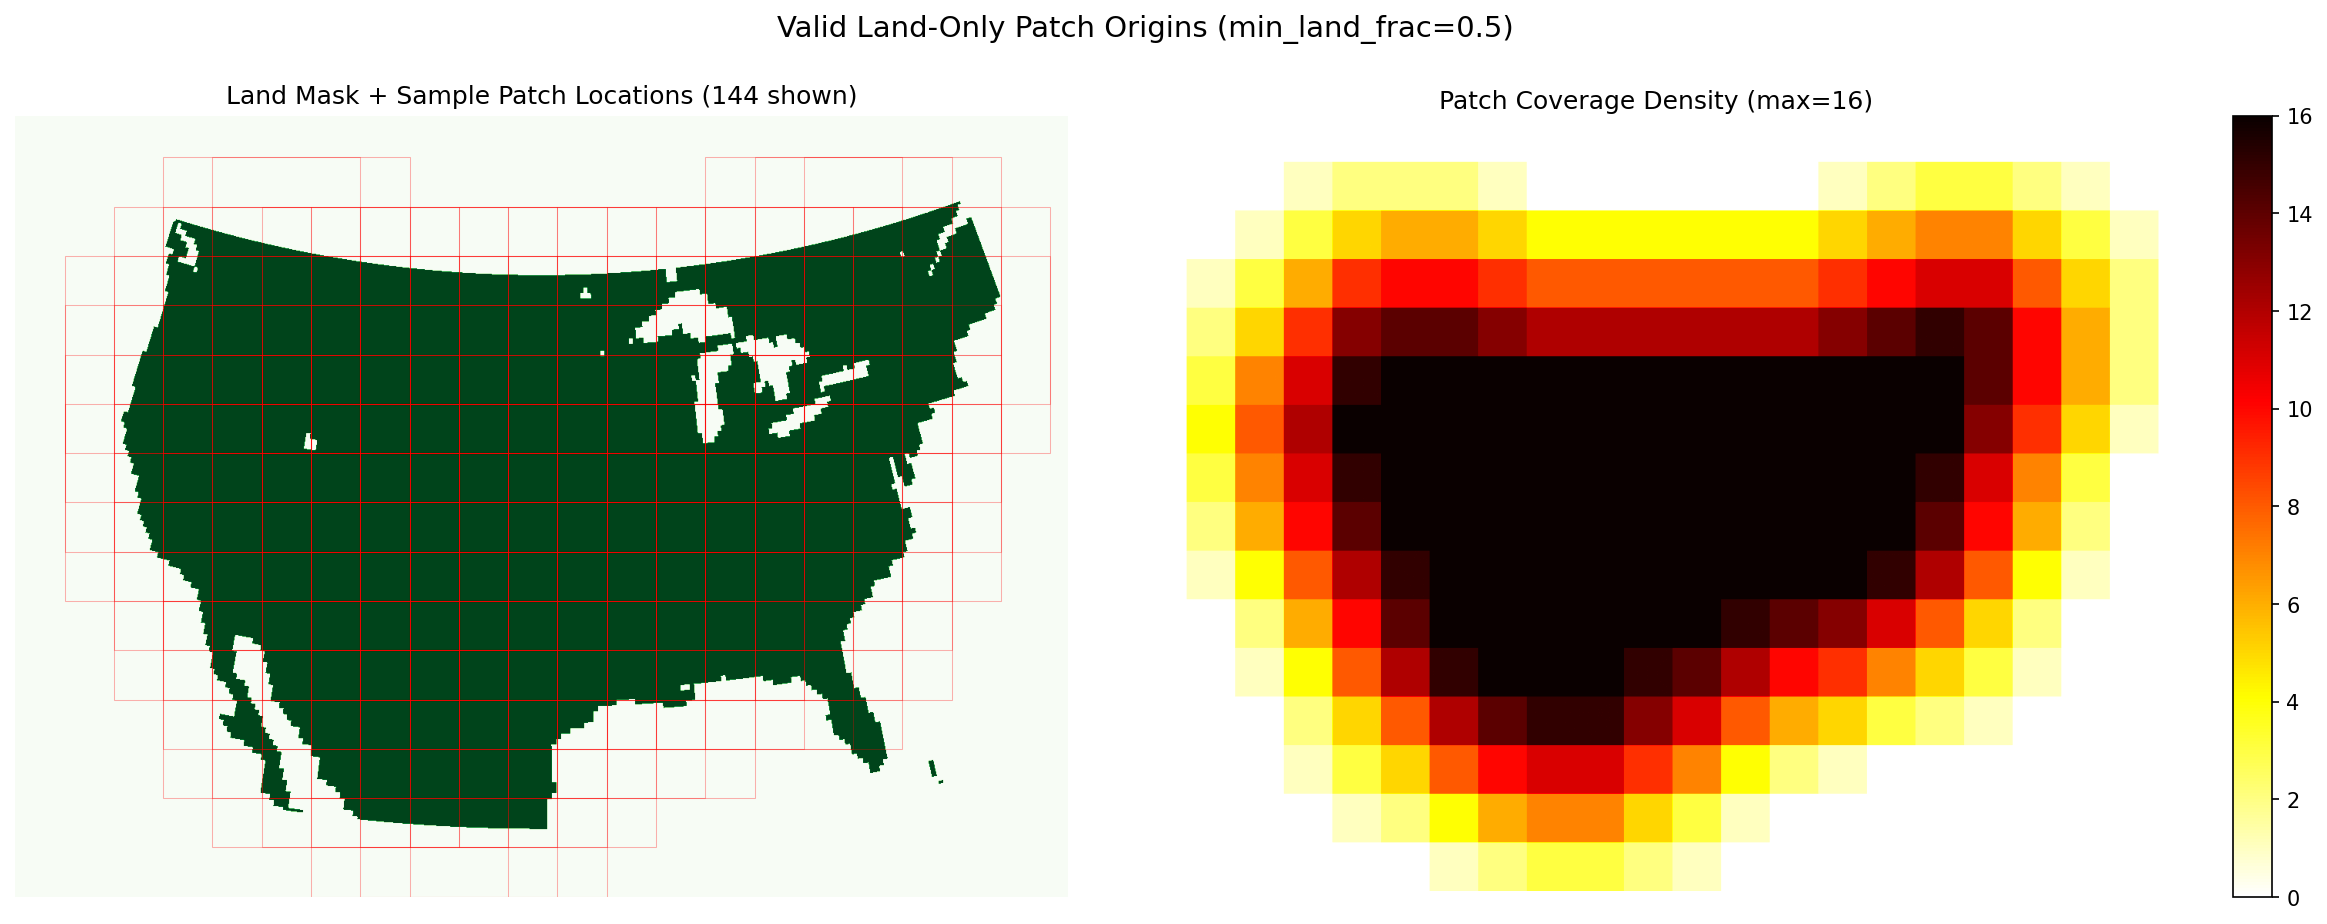
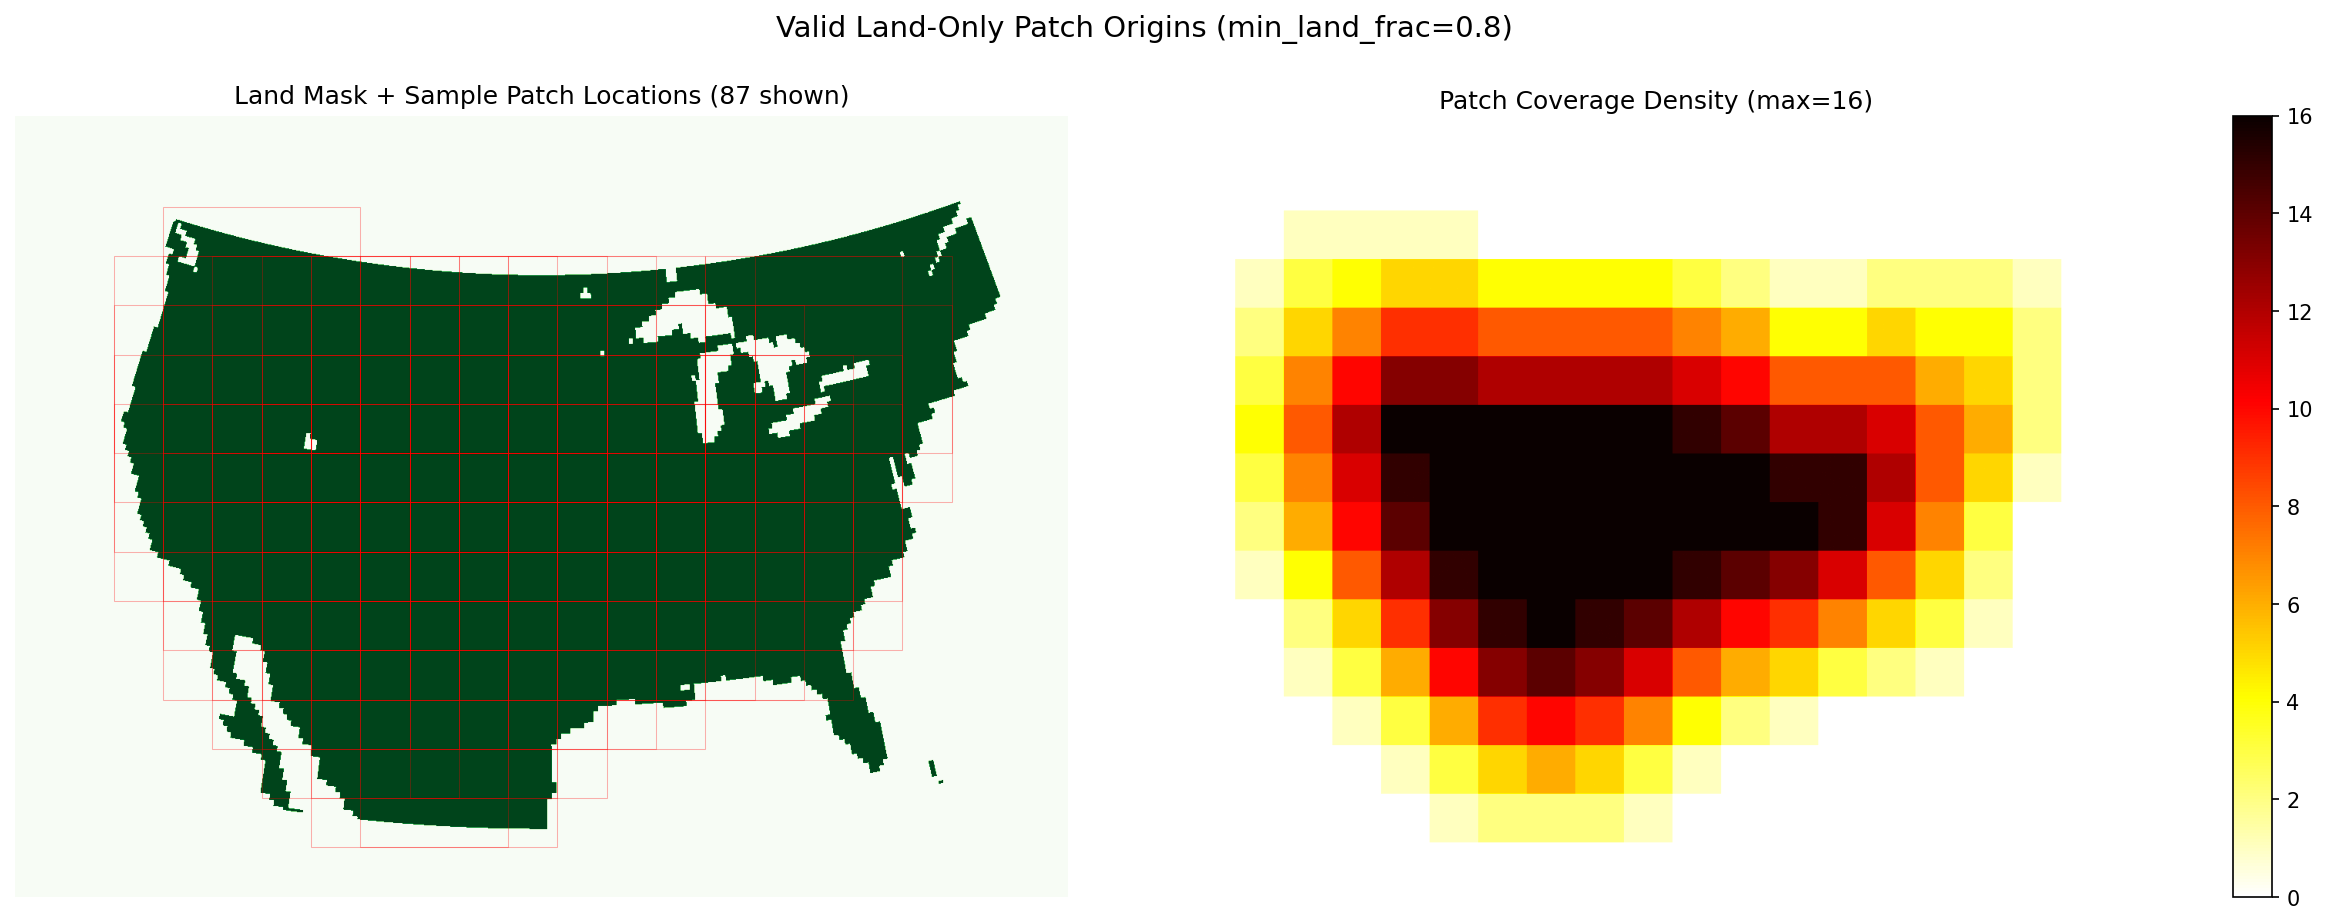
raise min_land_frac to 0.8, fill non-land pixels with patch mean

diff --git a/src/data/dataset.py b/src/data/dataset.py
@@ -1,0 +1,231 @@
+"""Dataset and DataModule for ERA5→CONUS404 downscaling."""
+
+import numpy as np
+import torch
+from torch.utils.data import Dataset, DataLoader
+import xarray as xr
+from pathlib import Path
+from typing import Optional, List, Tuple
+
+from .normalization import (
+    ERA5_VARS as DEFAULT_ERA5_VARS,
+    CONUS404_VARS as DEFAULT_CONUS404_VARS,
+    NormalizationStats,
+    apply_pretransform, PRETRANSFORMS,
+)
+from .regrid import ERA5Regridder
+from .land_mask import build_conus404_land_mask, get_valid_patch_origins
+
+
+def _month_for_day(day_of_year: int, leap: bool = False) -> int:
+    """Return 0-indexed month for a 1-indexed day of year."""
+    days_in_month = [31, 29 if leap else 28, 31, 30, 31, 30, 31, 31, 30, 31, 30, 31]
+    cum = 0
+    for m, d in enumerate(days_in_month):
+        cum += d
+        if day_of_year <= cum:
+            return m
+    return 11
+
+
+def _is_leap(year: int) -> bool:
+    return (year % 4 == 0 and year % 100 != 0) or (year % 400 == 0)
+
+
+class DownscalingDataset(Dataset):
+    """Lazy-loading dataset that yields paired (ERA5, CONUS404) patches.
+
+    Each sample is one day, one random 256×256 patch from land-only regions
+    of the CONUS404 grid, with the corresponding regridded ERA5 data.
+    """
+
+    def __init__(
+        self,
+        data_dir: str,
+        years: list,
+        norm_stats: NormalizationStats,
+        patch_size: int = 256,
+        patches_per_day: int = 4,
+        regridder: Optional[ERA5Regridder] = None,
+        conus_lat: Optional[np.ndarray] = None,
+        conus_lon: Optional[np.ndarray] = None,
+        land_mask: Optional[np.ndarray] = None,
+        valid_origins: Optional[List[Tuple[int, int]]] = None,
+        era5_vars: Optional[list] = None,
+        conus_vars: Optional[list] = None,
+    ):
+        self.data_dir = Path(data_dir)
+        self.years = years
+        self.norm_stats = norm_stats
+        self.patch_size = patch_size
+        self.patches_per_day = patches_per_day
+        self.regridder = regridder
+        self.conus_lat = conus_lat
+        self.conus_lon = conus_lon
+        self.land_mask = land_mask
+        self.valid_origins = valid_origins
+        self.era5_vars = era5_vars or DEFAULT_ERA5_VARS
+        self.conus_vars = conus_vars or DEFAULT_CONUS404_VARS
+
+        # Build index: (year, day_index) for all valid days
+        self.index = []
+        for y in years:
+            n_days = 366 if _is_leap(y) else 365
+            for d in range(n_days):
+                for _ in range(patches_per_day):
+                    self.index.append((y, d))
+
+        # Static fields (computed lazily)
+        self._static_fields = None
+
+    def _get_static_fields(self, conus_ds: xr.Dataset) -> np.ndarray:
+        """Build static fields: terrain_height, lat_norm, lon_norm, lsm-proxy, lai-proxy, elevation-variance.
+
+        Returns (6, 1015, 1367) array.
+        """
+        if self._static_fields is not None:
+            return self._static_fields
+
+        lat = self.conus_lat  # (1015, 1367)
+        lon = self.conus_lon
+        # Normalize to [-1, 1]
+        lat_norm = (lat - lat.mean()) / (lat.std() + 1e-8)
+        lon_norm = (lon - lon.mean()) / (lon.std() + 1e-8)
+
+        # Terrain height from Z variable (level 0, first time step)
+        z = conus_ds["Z"].isel(time=0, bottom_top_stag=0).values  # (1015, 1367)
+        z_norm = (z - z.mean()) / (z.std() + 1e-8)
+
+        # LAI from first time step
+        lai = conus_ds["LAI"].isel(time=0).values
+        lai_norm = (lai - lai.mean()) / (lai.std() + 1e-8)
+
+        # Orographic variance (local std of terrain in 5×5 window, simplified)
+        from scipy.ndimage import uniform_filter
+        z_mean = uniform_filter(z, size=5)
+        z_sq_mean = uniform_filter(z ** 2, size=5)
+        orog_var = np.sqrt(np.maximum(z_sq_mean - z_mean ** 2, 0))
+        orog_var_norm = (orog_var - orog_var.mean()) / (orog_var.std() + 1e-8)
+
+        # Land mask proxy (Z > some threshold indicates land; simplified)
+        lsm = (z > 0).astype(np.float32)
+
+        self._static_fields = np.stack([z_norm, orog_var_norm, lat_norm, lon_norm, lai_norm, lsm], axis=0).astype(np.float32)
+        return self._static_fields
+
+    def __len__(self):
+        return len(self.index)
+
+    def __getitem__(self, idx):
+        year, day_idx = self.index[idx]
+        leap = _is_leap(year)
+        month_idx = _month_for_day(day_idx + 1, leap)
+
+        # Load ERA5 data for this day
+        era5_path = self.data_dir / f"era5_{year}.nc"
+        with xr.open_dataset(era5_path) as ds:
+            era5_day = {}
+            for var in self.era5_vars:
+                raw = ds[var].isel(time=month_idx, valid_time=day_idx).values  # (111, 235)
+                era5_day[var] = apply_pretransform(raw.astype(np.float32), var)
+
+        # Stack ERA5 channels and regrid to CONUS404 grid
+        era5_stack = np.stack([era5_day[v] for v in self.era5_vars], axis=0)
+        if self.regridder is not None:
+            era5_regridded = self.regridder.regrid_batch(era5_stack)  # (7, 1015, 1367)
+        else:
+            raise RuntimeError("Regridder not initialized")
+
+        # Load CONUS404 data for this day
+        conus_path = self.data_dir / f"conus404_yearly_{year}.nc"
+        with xr.open_dataset(conus_path) as ds:
+            conus_day = {}
+            for var in self.conus_vars:
+                raw = ds[var].isel(time=day_idx).values  # (1015, 1367)
+                conus_day[var] = apply_pretransform(raw.astype(np.float32), var)
+            static = self._get_static_fields(ds)
+
+        # Stack CONUS404 channels
+        conus_stack = np.stack([conus_day[v] for v in self.conus_vars], axis=0)
+
+        # Concatenate ERA5 regridded + static fields for input
+        era5_input = np.concatenate([era5_regridded, static], axis=0)  # (13, 1015, 1367)
+
+        # Random patch extraction — land-only if valid_origins provided
+        H, W = 1015, 1367
+        ps = self.patch_size
+        if self.valid_origins is not None and len(self.valid_origins) > 0:
+            idx_origin = np.random.randint(0, len(self.valid_origins))
+            y0, x0 = self.valid_origins[idx_origin]
+        else:
+            y0 = np.random.randint(0, H - ps)
+            x0 = np.random.randint(0, W - ps)
+
+        era5_patch = era5_input[:, y0:y0+ps, x0:x0+ps].copy()
+        conus_patch = conus_stack[:, y0:y0+ps, x0:x0+ps].copy()
+
+        # Fill non-land pixels with per-channel patch mean so they don't
+        # distort gradients (patches are >=80% land but not always 100%)
+        if self.land_mask is not None:
+            patch_mask = self.land_mask[y0:y0+ps, x0:x0+ps]
+            if not patch_mask.all():
+                for c in range(era5_patch.shape[0]):
+                    ch = era5_patch[c]
+                    ch[~patch_mask] = ch[patch_mask].mean()
+                for c in range(conus_patch.shape[0]):
+                    ch = conus_patch[c]
+                    ch[~patch_mask] = ch[patch_mask].mean()
+
+        era5_patch = torch.from_numpy(era5_patch)
+        conus_patch = torch.from_numpy(conus_patch)
+
+        # Normalize
+        era5_patch = self.norm_stats.normalize_era5(era5_patch.unsqueeze(0)).squeeze(0)
+        conus_patch = self.norm_stats.normalize_conus(conus_patch.unsqueeze(0)).squeeze(0)
+
+        return era5_patch, conus_patch
+
+
+def build_dataloaders(
+    data_dir: str,
+    norm_stats: NormalizationStats,
+    regridder: ERA5Regridder,
+    conus_lat: np.ndarray,
+    conus_lon: np.ndarray,
+    batch_size: int = 16,
+    patch_size: int = 256,
+    patches_per_day: int = 4,
+    num_workers: int = 4,
+    train_years: list = None,
+    val_years: list = None,
+    land_mask: np.ndarray = None,
+    valid_origins: list = None,
+    era5_vars: list = None,
+    conus_vars: list = None,
+):
+    """Build train and val DataLoaders with optional land-only patch extraction."""
+    if train_years is None:
+        train_years = list(range(1980, 2015))
+    if val_years is None:
+        val_years = list(range(2015, 2018))
+
+    train_ds = DownscalingDataset(
+        data_dir, train_years, norm_stats, patch_size,
+        patches_per_day=patches_per_day,
+        regridder=regridder, conus_lat=conus_lat, conus_lon=conus_lon,
+        land_mask=land_mask, valid_origins=valid_origins,
+        era5_vars=era5_vars, conus_vars=conus_vars,
+    )
+    val_ds = DownscalingDataset(
+        data_dir, val_years, norm_stats, patch_size,
+        patches_per_day=1, regridder=regridder,
+        conus_lat=conus_lat, conus_lon=conus_lon,
+        land_mask=land_mask, valid_origins=valid_origins,
+        era5_vars=era5_vars, conus_vars=conus_vars,
+    )
+
+    train_dl = DataLoader(train_ds, batch_size=batch_size, shuffle=True,
+                          num_workers=num_workers, pin_memory=True, drop_last=True)
+    val_dl = DataLoader(val_ds, batch_size=batch_size, shuffle=False,
+                        num_workers=num_workers, pin_memory=True)
+    return train_dl, val_dl

diff --git a/config.py b/config.py
@@ -1,0 +1,95 @@
+"""Model configuration — variables, bounds, and training defaults.
+
+Add new variable pairs to VARIABLE_PAIRS to train on more fields.
+Currently set to temperature only.
+"""
+
+# ─── US CONUS geographic bounds ──────────────────────────────────────────────
+LAT_MIN, LAT_MAX = 24, 50
+LON_MIN, LON_MAX = -125, -66
+
+# ─── Variable pairs: ERA5 name → CONUS404 name ──────────────────────────────
+# Only temperature for now — uncomment lines below to add more variables.
+VARIABLE_PAIRS = {
+    "t2m": "T2",
+    # "d2m": "TD2",
+    # "u10": "U10",
+    # "v10": "V10",
+    # "sp": "PSFC",
+    # "tp": "PREC_ACC_NC",
+    # "z": "Q2",
+}
+
+ERA5_VARS = list(VARIABLE_PAIRS.keys())
+CONUS404_VARS = list(VARIABLE_PAIRS.values())
+
+# Number of input channels = len(ERA5_VARS) + num_static_fields
+NUM_STATIC_FIELDS = 5  # terrain, orog_var, lat, lon, lsm
+IN_CH = len(ERA5_VARS) + NUM_STATIC_FIELDS
+OUT_CH = len(CONUS404_VARS)
+
+# ─── Units and labels ────────────────────────────────────────────────────────
+VARIABLE_UNITS = {
+    "t2m": "K", "d2m": "K", "sp": "hPa",
+    "u10": "m/s", "v10": "m/s", "tp": "mm", "z": "m",
+    "T2": "K", "TD2": "K", "PSFC": "hPa",
+    "U10": "m/s", "V10": "m/s", "PREC_ACC_NC": "mm", "Q2": "kg/kg",
+}
+
+VARIABLE_NAMES = {
+    "t2m": "2m Temperature", "d2m": "2m Dewpoint", "sp": "Surface Pressure",
+    "u10": "10m U-Wind", "v10": "10m V-Wind", "tp": "Precipitation",
+    "z": "Geopotential Height",
+    "T2": "2m Temperature", "TD2": "2m Dewpoint", "PSFC": "Surface Pressure",
+    "U10": "10m U-Wind", "V10": "10m V-Wind", "PREC_ACC_NC": "Precipitation",
+    "Q2": "Specific Humidity",
+}
+
+# ─── Pretransforms (applied before z-scoring) ────────────────────────────────
+PRETRANSFORMS = {
+    "tp": "log1p",
+    "PREC_ACC_NC": "log1p",
+    "Q2": "sqrt",
+    "z": "geopotential",
+}
+
+# ─── Model architecture ─────────────────────────────────────────────────────
+PATCH_SIZE = 256
+LATENT_H = LATENT_W = 64
+LATENT_CH = 8 if OUT_CH > 1 else 4
+
+MODEL = dict(
+    drn_base_ch=64,
+    drn_ch_mults=(1, 2, 4, 8),
+    drn_num_res_blocks=2,
+    drn_attn_resolutions=(2,),
+    vae_base_ch=128,
+    diff_base_ch=128,
+    diff_ch_mults=(1, 2, 2, 4),
+    diff_num_res_blocks=4,
+    diff_attn_resolutions=(1, 2, 3),
+    diff_time_dim=512,
+)
+
+# ─── Training defaults ──────────────────────────────────────────────────────
+TRAIN = dict(
+    train_years=list(range(1980, 2015)),
+    val_years=list(range(2015, 2018)),
+    test_years=list(range(2018, 2021)),
+    batch_size=8,
+    patches_per_day=2,
+    drn_epochs=50,
+    drn_lr=2e-4,
+    drn_warmup_epochs=5,
+    vae_epochs=25,
+    vae_lr=1e-4,
+    vae_warmup_epochs=3,
+    vae_beta_max=1e-3,
+    vae_beta_anneal_frac=0.3,
+    diff_epochs=50,
+    diff_lr=2e-4,
+    diff_warmup_epochs=5,
+    ema_decay=0.9999,
+    p_uncond=0.1,
+    min_land_frac=0.8,  # patches must be >= 80% land
+)

diff --git a/gridding_test.py b/gridding_test.py
@@ -25,9 +25,10 @@ from src.data.land_mask import (
     build_conus404_land_mask, get_valid_patch_origins,
     LAT_MIN, LAT_MAX, LON_MIN, LON_MAX,
 )
+from config import TRAIN, PATCH_SIZE
 
 DATA_DIR = Path("data")
-PATCH_SIZE = 256
+MIN_LAND_FRAC = TRAIN["min_land_frac"]
 
 
 def main(plot_dir="gridding_plots"):
@@ -122,9 +123,9 @@ def main(plot_dir="gridding_plots"):
         origins = get_valid_patch_origins(land_mask, PATCH_SIZE, min_land_frac=min_frac)
         print(f"  min_land_frac={min_frac:.1f}: {len(origins)} valid origins")
 
-    valid_origins = get_valid_patch_origins(land_mask, PATCH_SIZE, min_land_frac=0.5)
+    valid_origins = get_valid_patch_origins(land_mask, PATCH_SIZE, min_land_frac=MIN_LAND_FRAC)
     assert len(valid_origins) > 0, "No valid land-only patch origins found!"
-    print(f"\n[Patches] Using min_land_frac=0.5: {len(valid_origins)} valid origins")
+    print(f"\n[Patches] Using min_land_frac={MIN_LAND_FRAC}: {len(valid_origins)} valid origins")
 
     # ── Plot 03: Valid patch origin density map ──
     density = np.zeros((H, W), dtype=np.float32)
@@ -153,7 +154,7 @@ def main(plot_dir="gridding_plots"):
     ax.axis("off")
     plt.colorbar(im, ax=ax, fraction=0.046)
 
-    fig.suptitle("Valid Land-Only Patch Origins (min_land_frac=0.5)", fontsize=14, y=1.02)
+    fig.suptitle(f"Valid Land-Only Patch Origins (min_land_frac={MIN_LAND_FRAC})", fontsize=14, y=1.02)
     plt.tight_layout()
     fig.savefig(f"{plot_dir}/03_patch_origins.png", dpi=150, bbox_inches="tight")
     plt.close(fig)
@@ -193,7 +194,7 @@ def main(plot_dir="gridding_plots"):
 
     fig, ax = plt.subplots(figsize=(8, 5))
     ax.hist(land_fracs, bins=50, edgecolor="black", alpha=0.7, color="forestgreen")
-    ax.axvline(0.5, color="red", ls="--", linewidth=2, label="min_land_frac=0.5")
+    ax.axvline(MIN_LAND_FRAC, color="red", ls="--", linewidth=2, label=f"min_land_frac={MIN_LAND_FRAC}")
     ax.set_xlabel("Land Fraction per Patch")
     ax.set_ylabel("Count")
     ax.set_title(f"Land Fraction Distribution ({len(valid_origins)} patches)")
@@ -205,9 +206,9 @@ def main(plot_dir="gridding_plots"):
     print(f"  Plot -> {plot_dir}/05_land_fraction_histogram.png")
 
     # ── Assertions ──
-    assert land_fracs.min() >= 0.5, \
-        f"Found patch with land_frac={land_fracs.min():.3f} < 0.5!"
-    assert len(valid_origins) >= 100, \
+    assert land_fracs.min() >= MIN_LAND_FRAC - 1e-6, \
+        f"Found patch with land_frac={land_fracs.min():.3f} < {MIN_LAND_FRAC}!"
+    assert len(valid_origins) >= 50, \
         f"Only {len(valid_origins)} valid origins — expected at least 100"
 
     # ── ERA5 regridding check ──
@@ -269,7 +270,7 @@ def main(plot_dir="gridding_plots"):
     print(f"  Grid size:        {H}×{W}")
     print(f"  Land pixels:      {land_mask.sum()}/{land_mask.size} "
           f"({100*land_mask.sum()/land_mask.size:.1f}%)")
-    print(f"  Valid patch origins (50% land): {len(valid_origins)}")
+    print(f"  Valid patch origins ({MIN_LAND_FRAC*100:.0f}% land): {len(valid_origins)}")
     print(f"  Land frac range:  [{land_fracs.min():.2f}, {land_fracs.max():.2f}]")
     print(f"  Land frac mean:   {land_fracs.mean():.2f}")
     print(f"  Plots saved to:   {plot_path.resolve()}/")
